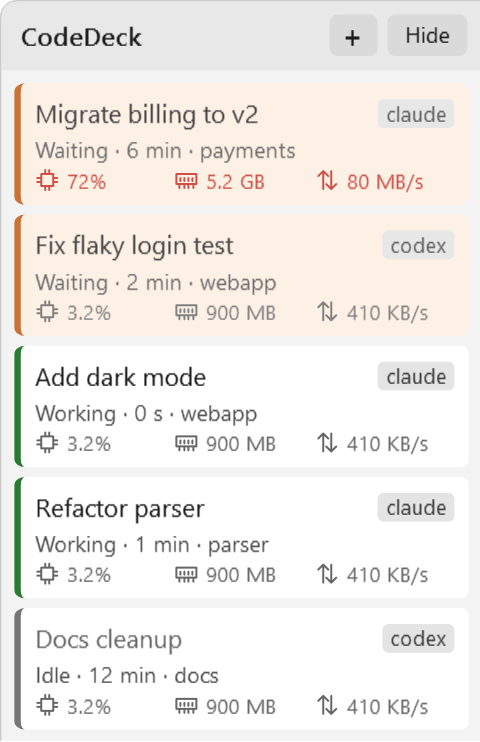
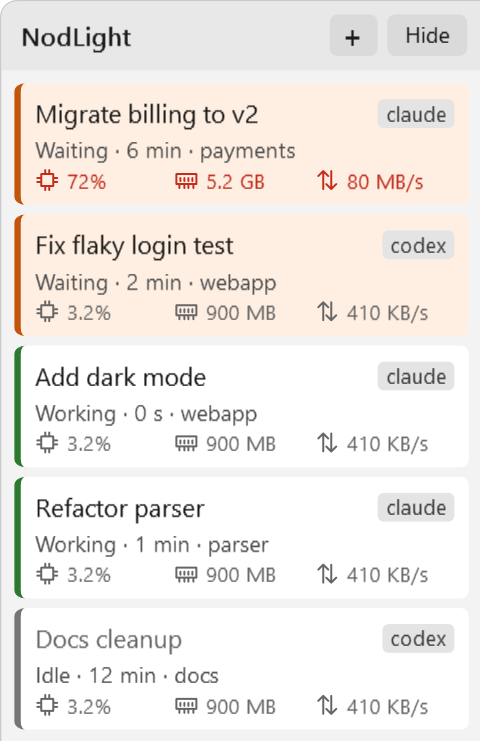
docs: changelog, screenshots with the new name

diff --git a/CHANGELOG.md b/CHANGELOG.md
@@ -1,0 +1,20 @@
+# Changelog
+
+## 1.0.1 — 2026-10-28
+
+First release.
+
+### Features
+
+- **A strip of session cards** anchored to the bottom-right corner of the primary monitor, always on top, as tall as its cards. One card per Alacritty window running Claude Code or Codex.
+- **Status at a glance.** Orange with a slow blink when a session waits for you (a permission prompt or a finished turn), green while it works, grey when idle. Each card shows the window title, a `claude` or `codex` badge, how long it has been in that status and the project folder.
+- **Interrupts detected.** A turn you cancel with Esc is read from the session transcript, so the card does not stay on "working".
+- **Click to focus.** Clicking a card brings its window to the front, restored if it was minimised. A finished turn goes grey once you have looked at that window.
+- **Sessions already running are found at start** and shown as idle until their next event.
+- **Resource use per session.** CPU, memory and disk/network I/O of everything running under the window, shown in red above 50% CPU, 4 GB or 50 MB/s.
+- **Taskbar button.** Shows or hides the strip; its thumbnail counts sessions waiting, working and idle; right-click for New, Hide, Install hooks and Remove hooks.
+- **Hide and + buttons** on the strip: tuck it away, or open a new Alacritty window.
+- **Follows Windows** light or dark mode and accent colour.
+- **Hook setup on first start.** Installs a small native hook helper and adds its hooks to Claude Code and Codex, after asking, with a one-time backup of each file. Your own hooks are left alone, and **Remove hooks** takes out only NodLight's.
+- **Installer** for just you (no admin rights) or everyone on the computer. It checks for the .NET 10 Desktop Runtime, closes a running NodLight on update and offers to start it at the end. Also available as a portable zip.
+- **Log file** at `%LOCALAPPDATA%\NodLight\deck.log`: start-up, sessions found, hook setup and errors.
